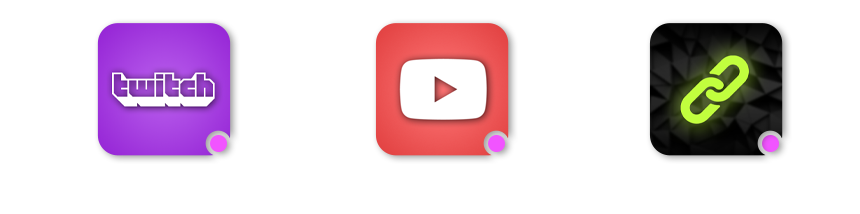
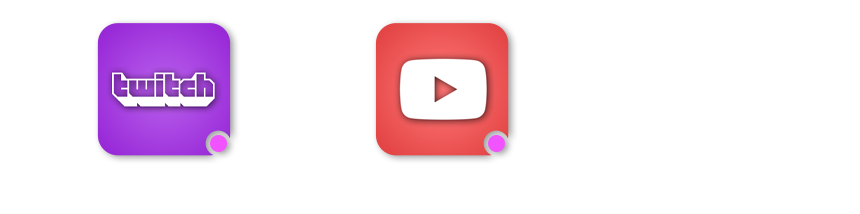
Removed linkembeds item from store

Changed region(s): [[0.7558, 0.0841, 0.9372, 0.757]]

diff --git a/commands/slash_commands/administration/index.js b/commands/slash_commands/administration/index.js
@@ -144,11 +144,6 @@ Buy entry tickets from <#1049791650060324954> to have your content featured here
                             .setCustomId('perm-two')
                             .setLabel('  800   ')
                             .setEmoji('1050596938921295973')
-                            .setStyle(ButtonStyle.Primary),
-                        new ButtonBuilder()
-                            .setCustomId('perm-three')
-                            .setLabel('  300   ')
-                            .setEmoji('1050596938921295973')
                             .setStyle(ButtonStyle.Primary)
                     );
                 const gift = new ActionRowBuilder()
@@ -162,11 +157,6 @@ Buy entry tickets from <#1049791650060324954> to have your content featured here
                             .setCustomId('giftperm-two')
                             .setLabel('  Gift   ')
                             .setEmoji('1053389293424480326')
-                            .setStyle(ButtonStyle.Success),
-                        new ButtonBuilder()
-                            .setCustomId('giftperm-three')
-                            .setLabel('   Gift   ')
-                            .setEmoji('1053389293424480326')
                             .setStyle(ButtonStyle.Success)
                     );
                 const info = new ActionRowBuilder()
@@ -178,10 +168,6 @@ Buy entry tickets from <#1049791650060324954> to have your content featured here
                         new ButtonBuilder()
                             .setCustomId('info-perm-two')
                             .setLabel('  Information ')
-                            .setStyle(ButtonStyle.Secondary),
-                        new ButtonBuilder()
-                            .setCustomId('info-perm-three')
-                            .setLabel(' Information  ')
                             .setStyle(ButtonStyle.Secondary)
                     );
 
@@ -202,11 +188,6 @@ Buy entry tickets from <#1049791650060324954> to have your content featured here
                             .setCustomId('temp-two')
                             .setLabel('   100   ')
                             .setEmoji('1050596938921295973')
-                            .setStyle(ButtonStyle.Primary),
-                        new ButtonBuilder()
-                            .setCustomId('temp-three')
-                            .setLabel('   30    ')
-                            .setEmoji('1050596938921295973')
                             .setStyle(ButtonStyle.Primary)
                     );
                 const gift2 = new ActionRowBuilder()
@@ -220,11 +201,6 @@ Buy entry tickets from <#1049791650060324954> to have your content featured here
                             .setCustomId('gifttemp-two')
                             .setLabel('  Gift   ')
                             .setEmoji('1053389293424480326')
-                            .setStyle(ButtonStyle.Success),
-                        new ButtonBuilder()
-                            .setCustomId('gifttemp-three')
-                            .setLabel('   Gift   ')
-                            .setEmoji('1053389293424480326')
                             .setStyle(ButtonStyle.Success)
                     );
                 const info2 = new ActionRowBuilder()
@@ -236,10 +212,6 @@ Buy entry tickets from <#1049791650060324954> to have your content featured here
                         new ButtonBuilder()
                             .setCustomId('info-temp-two')
                             .setLabel('  Information ')
-                            .setStyle(ButtonStyle.Secondary),
-                        new ButtonBuilder()
-                            .setCustomId('info-temp-three')
-                            .setLabel(' Information  ')
                             .setStyle(ButtonStyle.Secondary)
                     );
 

diff --git a/handlers/buttons/store/store_temp.js b/handlers/buttons/store/store_temp.js
@@ -16,7 +16,6 @@ module.exports = async (interaction) => {
     const itemIndex = customId.split('-')[1];
     if (itemIndex === 'one') itemName = 'Twitch Auto (1 week)', btnIndex = 0;
     if (itemIndex === 'two') itemName = 'YouTube Auto (1 week)', btnIndex = 1;
-    if (itemIndex === 'three') itemName = 'Link Embeds (1 week)', btnIndex = 2;
     let cost = interaction.message.components[0].components[btnIndex].label.replaceAll(' ', '').replaceAll(' ', '');
     let customMessage = ``;
 
@@ -105,46 +104,6 @@ module.exports = async (interaction) => {
                 // If an error occurs
                 sendResponse(interaction, `${process.env.BOT_DENY} An error occurred. Please contact a staff member for help`);
             }
-        }
-    }
-
-    // Three
-    if (itemIndex === 'three') {
-        // This item is free for server boosters
-        if ((member.roles.cache.has(process.env.BOOSTER_ROLE) || (member.roles.cache.has(process.env.SUBSCRIBER_ROLE))) && !customId.includes('gift')) cost = 0;
-
-        // Present the user with a confirmation modal
-        if (interaction.type !== InteractionType.ModalSubmit) return confirmationModal(interaction, storeName, itemName, itemIndex, cost);
-
-        await interaction.deferReply({ ephemeral: true }).catch(err => console.error(`${path.basename(__filename)} There was a problem deferring an interaction: `, err));
-
-        // Make sure the user confirmed the purchase
-        if (!await checkConfirmation(interaction)) return;
-
-        // If item is being purcahsed as a gift
-        if (customId.includes('gift')) giftee = interaction.fields.getTextInputValue('input0');
-        if (customId.includes('gift')) member = await guild.members.fetch(giftee).catch(() => { })
-        // If a member can't be found
-        if (!member) return sendResponse(interaction, `${process.env.BOT_DENY} The giftee ID you entered does not belong to a member of this server`);
-
-        // Two instances of this item can't be active at the same time, check if the user has an active subscription
-        const results = await tokensSchema.find({ userId: member.id });
-        if ((results[0]?.linkembeds - new Date()) > 1 || results[0]?.linkembeds === true)
-            return sendResponse(interaction, `${process.env.BOT_DENY} ${member} already has an active subscription for this item. If you need help, please contact a staff member`);
-
-        // Attempt to complete the purchase and continue if successful
-        if (await completePurchase(interaction, cost, itemName, customMessage, member)) {
-            const contentShare = guild.channels.cache.get(process.env.CONTENT_SHARE);
-            // Edit the channel permissions for the user to allow link embeds  
-            contentShare.permissionOverwrites.edit(member.id, {
-                EmbedLinks: true,
-            }).catch(err => { return console.error(`${path.basename(__filename)} There was a problem editing a channel's permissions: `, err) });
-
-            // Future timestamp for auto expiry
-            const oneWeek = 24 * 60 * 60 * 7 * 1000;
-            const timestamp = new Date().valueOf() + oneWeek;
-            // Add expiry timestamp or boolean to user's db entry
-            await dbUpdateOne(tokensSchema, { userId: member.id }, { linkembeds: timestamp });
         }
     }
 }

diff --git a/handlers/buttons/store/store_perm.js b/handlers/buttons/store/store_perm.js
@@ -16,7 +16,6 @@ module.exports = async (interaction) => {
     const itemIndex = customId.split('-')[1];
     if (itemIndex === 'one') itemName = 'Twitch Auto (permanent)', btnIndex = 0;
     if (itemIndex === 'two') itemName = 'YouTube Auto (permanent)', btnIndex = 1;
-    if (itemIndex === 'three') itemName = 'Link Embeds (permanent)', btnIndex = 2;
     let cost = interaction.message.components[0].components[btnIndex].label.replaceAll(' ', '').replaceAll(' ', '');
     let customMessage = ``;
 
@@ -99,43 +98,6 @@ module.exports = async (interaction) => {
                 // If an error occurs
                 sendResponse(interaction, `${process.env.BOT_DENY} An error occurred. Please contact a staff member for help`);
             }
-        }
-    }
-
-    // Three
-    if (itemIndex === 'three') {
-        // This item is free for server boosters
-        if ((member.roles.cache.has(process.env.BOOSTER_ROLE) || (member.roles.cache.has(process.env.SUBSCRIBER_ROLE))) && !customId.includes('gift')) cost = 0;
-
-        // Present the user with a confirmation modal
-        if (interaction.type !== InteractionType.ModalSubmit) return confirmationModal(interaction, storeName, itemName, itemIndex, cost);
-
-        await interaction.deferReply({ ephemeral: true }).catch(err => console.error(`${path.basename(__filename)} There was a problem deferring an interaction: `, err));
-
-        // Make sure the user confirmed the purchase
-        if (!await checkConfirmation(interaction)) return;
-
-        // If item is being purcahsed as a gift
-        if (customId.includes('gift')) giftee = interaction.fields.getTextInputValue('input0');
-        if (customId.includes('gift')) member = await guild.members.fetch(giftee).catch(() => { })
-        // If a member can't be found
-        if (!member) return sendResponse(interaction, `${process.env.BOT_DENY} The giftee ID you entered does not belong to a member of this server`);
-
-        // Two instances of this item can't be active at the same time, check if the user has an active subscription
-        const results = await tokensSchema.find({ userId: member.id });
-        if ((results[0]?.linkembeds - new Date()) > 1 || results[0]?.linkembeds === true)
-            return sendResponse(interaction, `${process.env.BOT_DENY} ${member} already has an active subscription for this item. If you need help, please contact a staff member`);
-
-        // Attempt to complete the purchase and continue if successful
-        if (await completePurchase(interaction, cost, itemName, customMessage, member)) {
-            const contentShare = guild.channels.cache.get(process.env.CONTENT_SHARE);
-            // Edit the channel permissions for the user to allow link embeds  
-            contentShare.permissionOverwrites.edit(member.id, {
-                EmbedLinks: true,
-            }).catch(err => { return console.error(`${path.basename(__filename)} There was a problem editing a channel's permissions: `, err) });
-
-            // Add expiry timestamp or boolean to user's db entry
-            await dbUpdateOne(tokensSchema, { userId: member.id }, { linkembeds: true });
         }
     }
 }

diff --git a/modules/store/store_check.js b/modules/store/store_check.js
@@ -11,7 +11,7 @@ module.exports = async (client) => {
         // Find expired timestamps and null them
         const results = await tokensSchema.find();
         for (const data of results) {
-            const { userId, doublexp, youtubeauto, twitchauto, linkembeds } = data;
+            const { userId, doublexp, youtubeauto, twitchauto } = data;
             const member = await guild.members.fetch(userId).catch(async () => {
                 // If user doesn't exist, delete their db entry
                 await dbDeleteOne(tokensSchema, { userId: userId });
@@ -38,16 +38,6 @@ module.exports = async (client) => {
                 // Log when a user's item expires
                 tokenLog.send({
                     content: `${process.env.TOKENS_EXPIRE} ${member} your Twitch Auto item expired. Buy it again now in the <#1049791650060324954> if you want to keep using it`
-                }).catch(err => console.error(`${path.basename(__filename)} There was a problem sending a message: `, err));
-            }
-
-            if (linkembeds !== true && linkembeds !== null && (linkembeds - new Date()) <= 0) {
-                await dbUpdateOne(tokensSchema, { userId: userId }, { linkembeds: null });
-                // Remove user's link embeds permission
-                contentShare.permissionOverwrites.delete(member.id).catch(err => { return console.error(`${path.basename(__filename)} There was a problem editing a channel's permissions: `, err) });
-                // Log when a user's item expires
-                tokenLog.send({
-                    content: `${process.env.TOKENS_EXPIRE} ${member} your Link Embeds item expired. Buy it again now in the <#1049791650060324954> if you want to keep using it`
                 }).catch(err => console.error(`${path.basename(__filename)} There was a problem sending a message: `, err));
             }
         }

diff --git a/commands/slash_commands/administration/test.js b/commands/slash_commands/administration/test.js
@@ -3,7 +3,7 @@ const { sendReply, dbFindOne, dbUpdateOne } = require('../../../utils/utils');
 const { v4: uuidv4 } = require('uuid');
 const fetch = require('node-fetch');
 const path = require("path");
-const schema = require('../../../schemas/misc/reddit_schema');
+const schema = require('../../../schemas/misc/tokens_schema');
 
 
 

diff --git a/schemas/misc/tokens_schema.js b/schemas/misc/tokens_schema.js
@@ -41,10 +41,6 @@ const tokensSchema = mongoose.Schema({
         type: mongoose.SchemaTypes.Mixed,
         required: false
     },
-    linkembeds: {
-        type: mongoose.SchemaTypes.Mixed,
-        required: false
-    },
     giveaways: {
         type: mongoose.SchemaTypes.Mixed,
         required: false
